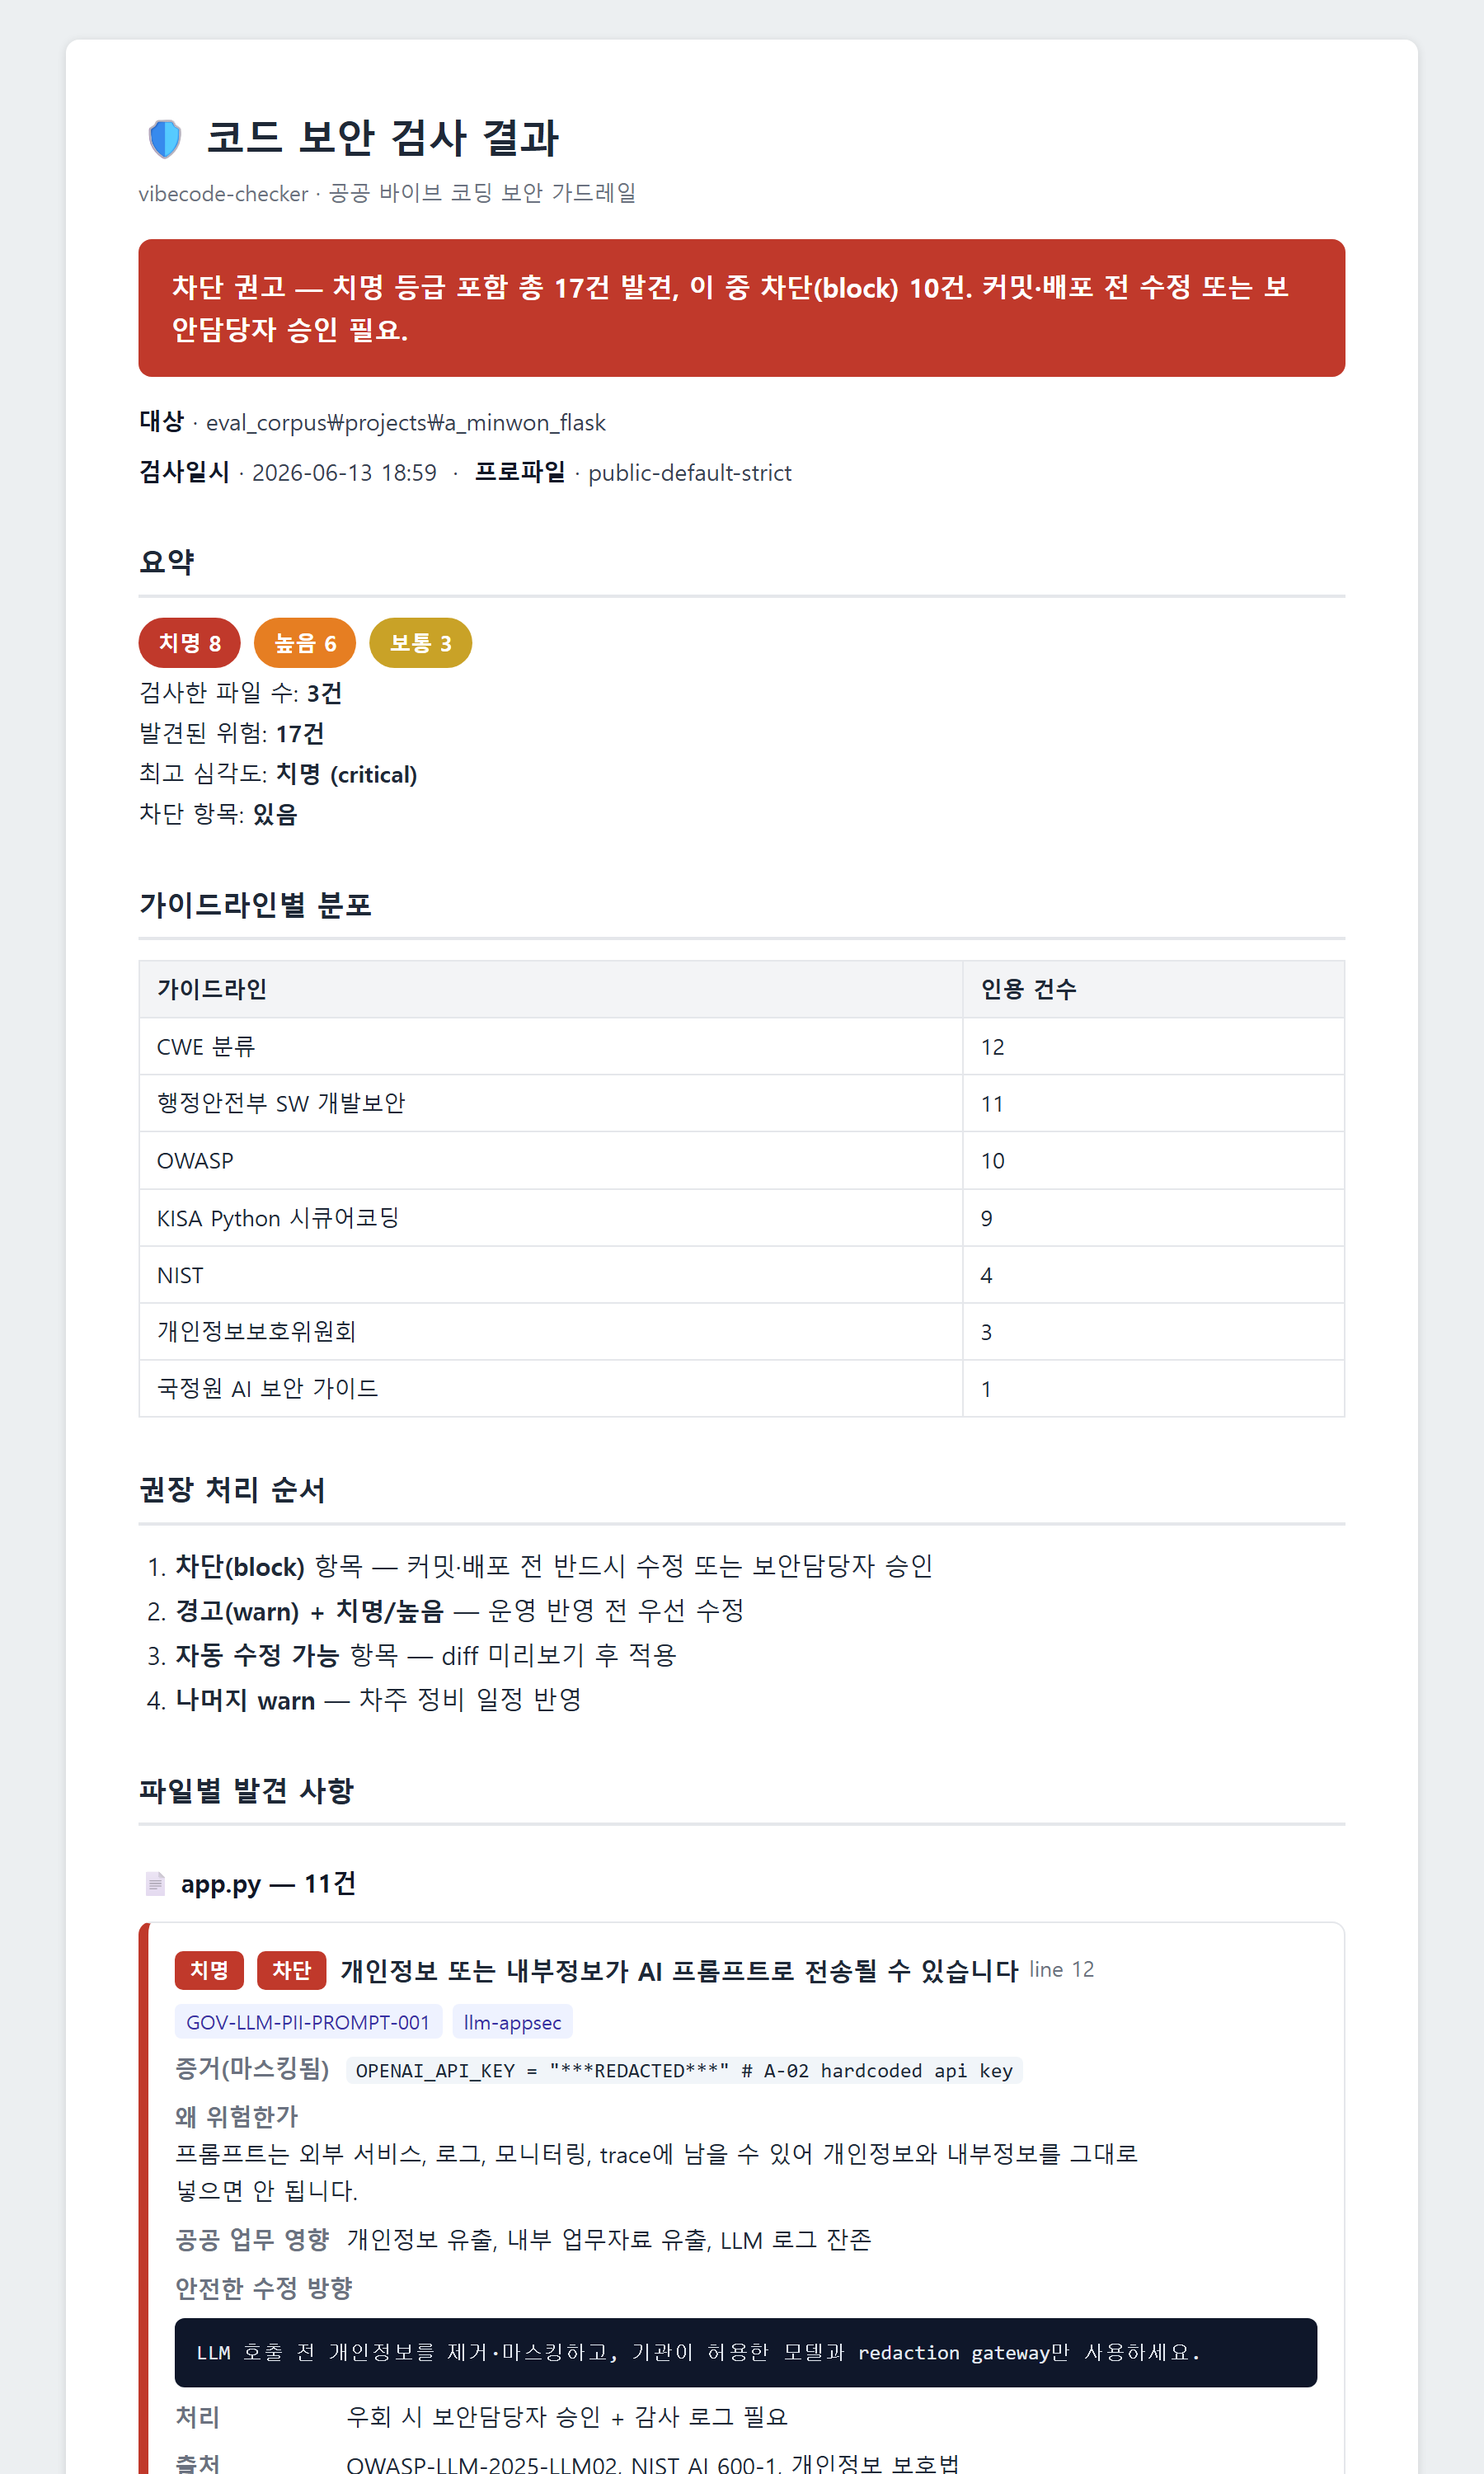
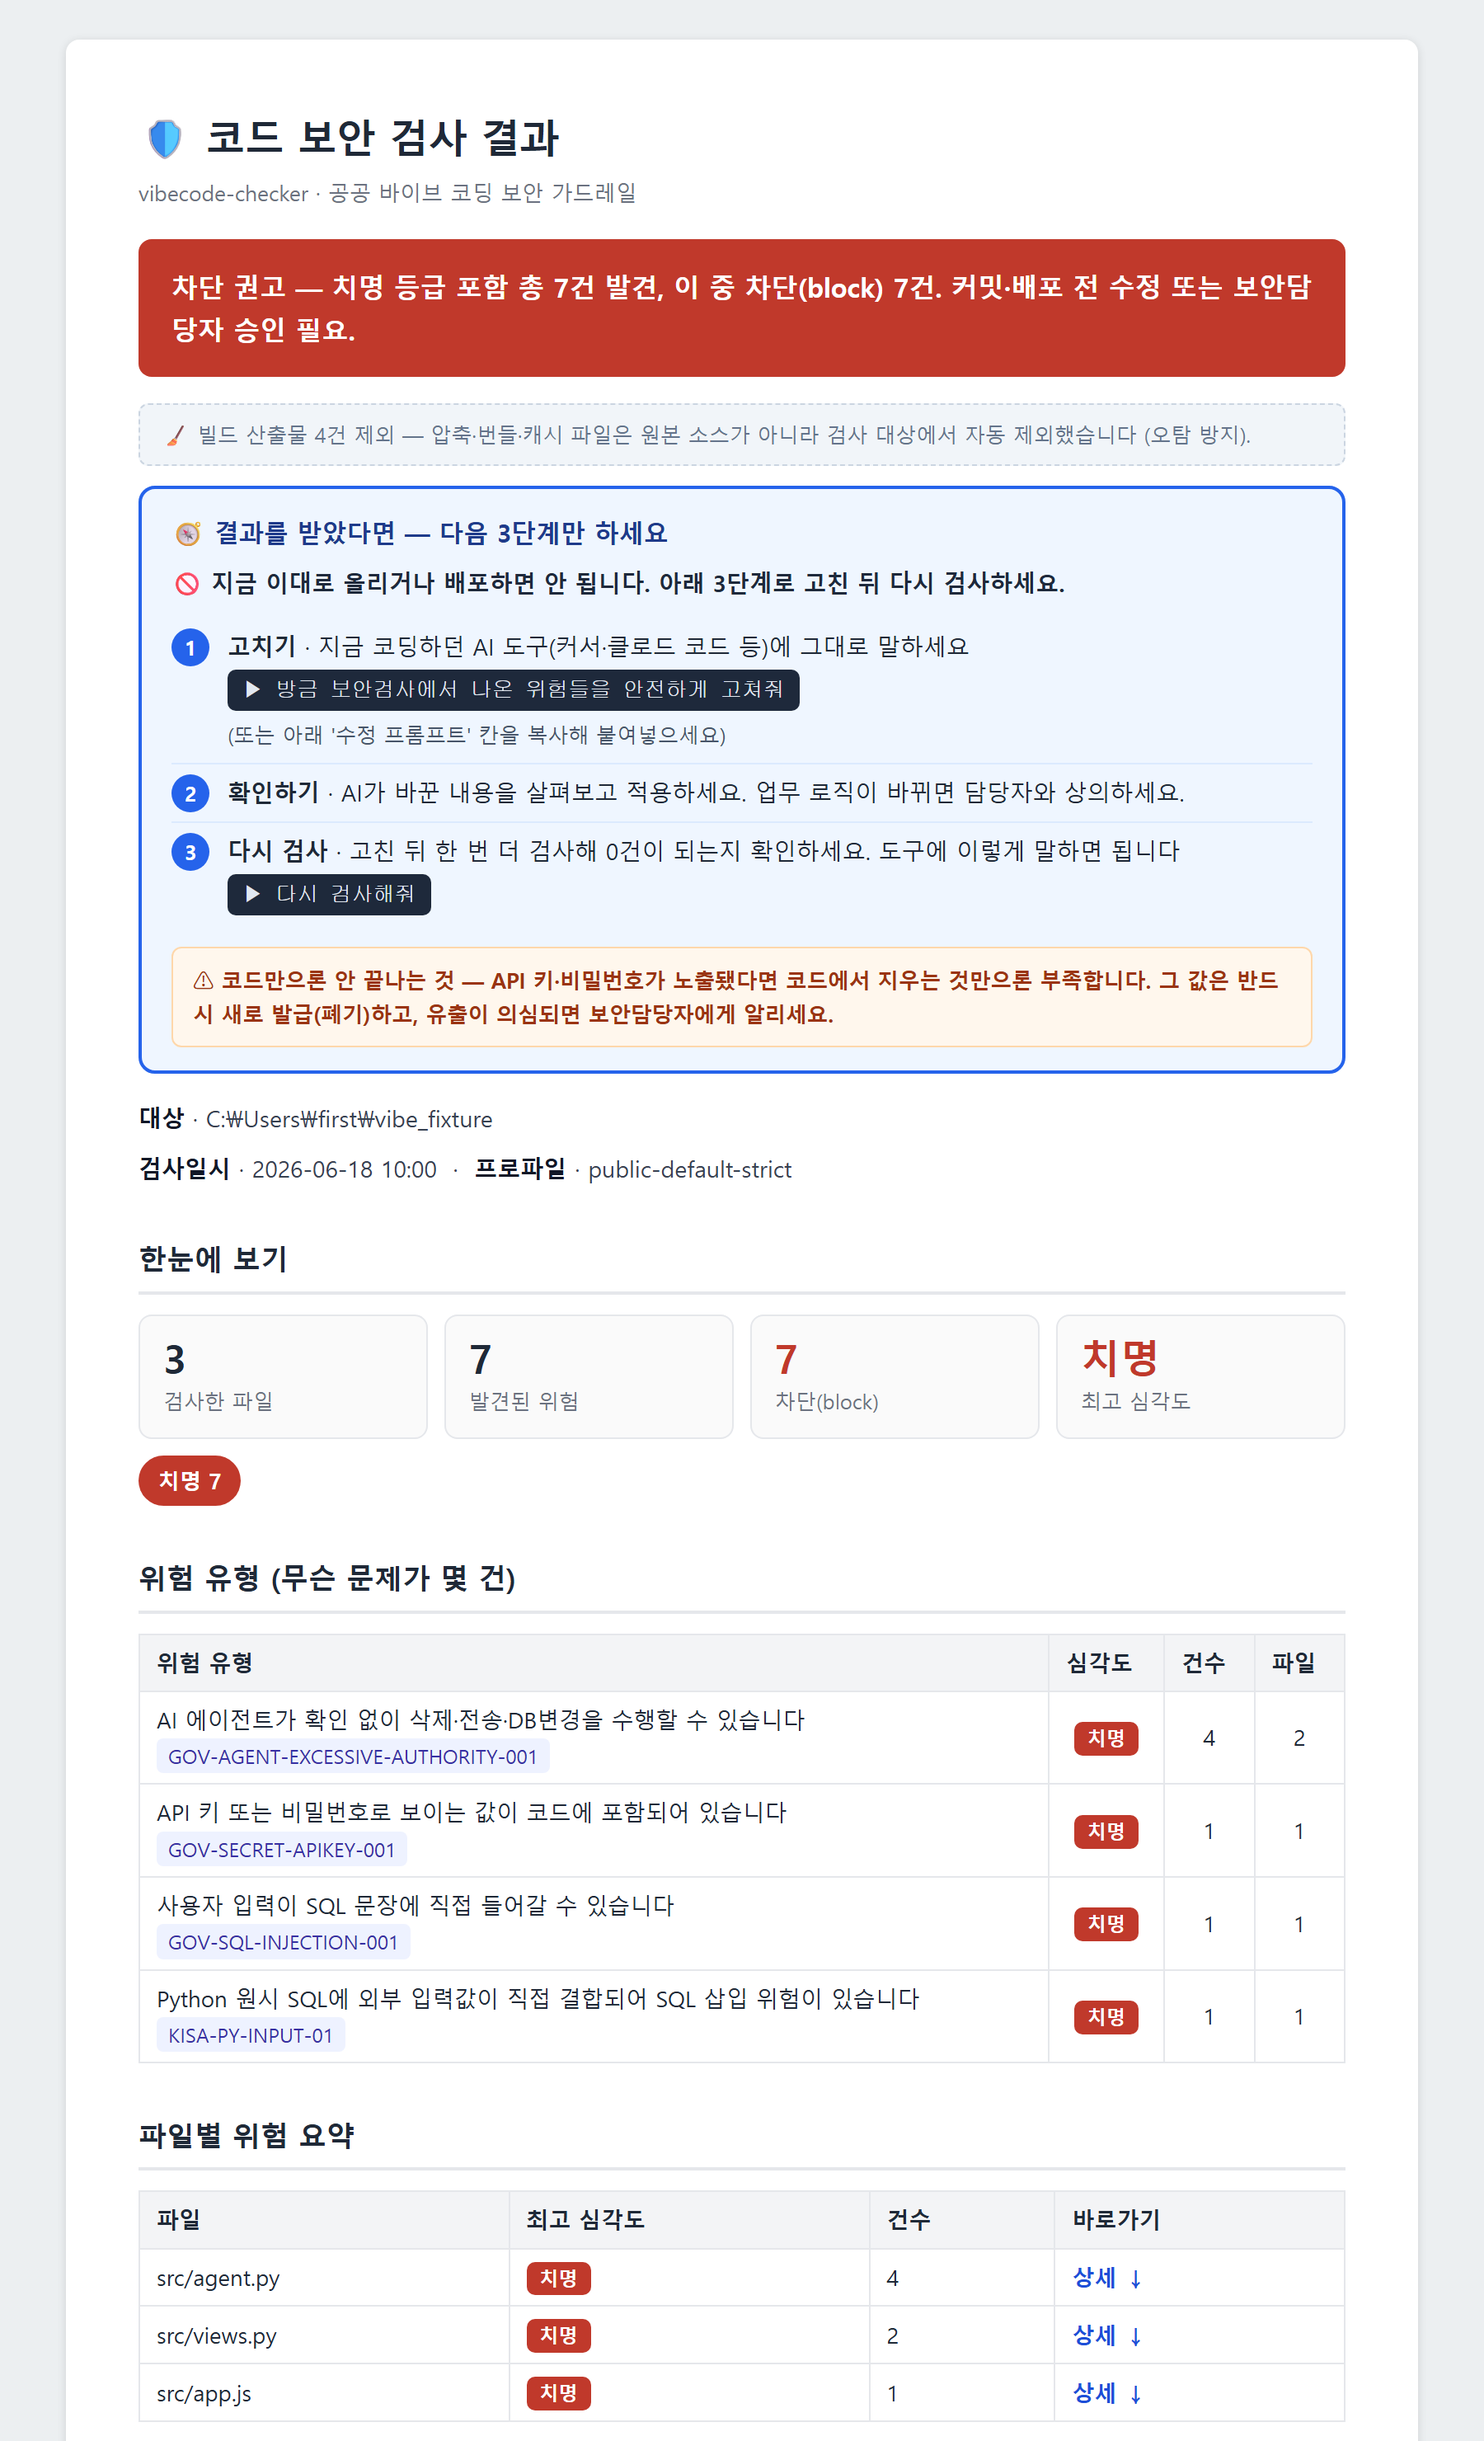
docs: explain false-positive handling + refresh report screenshot
- README "성능" 절에 '오탐을 어떻게 다루나' 섹션 추가: 재현율 우선 설계 ·
  빌드 산출물 자동 제외 · 데이터 기반 룰 정밀화 · "정밀화 ≠ 민감도 낮추기"
  (examples.negative + 벤치마크로 recall 유지 증명) 명시. 국정원 검토 대비
  정직성 설명 보강.
- docs/assets/sample_report.png 를 재설계된 리포트(1페이지 요약 + 다음 3단계
  행동 상자 + 위험 유형/파일별 요약)로 갱신. 기존 이미지는 재설계 이전 구버전.

diff --git a/README.md b/README.md
@@ -399,6 +399,16 @@ JavaScript      ███████████████░░░░░   7
 
 ---
 
+### 오탐(false positive)을 어떻게 다루나
+
+이 도구는 *놓침(미탐)보다 한 번 더 알림*을 택한 **재현율 우선** 설계입니다. 따라서 실제 코드에서는 맥락상 안전한데도 표시되는 항목이 있을 수 있어, **발견 사항은 증거 코드와 함께 사람이 맥락을 확인**하는 것을 전제로 합니다(리포트의 "다음 3단계" 안내 참고). 오탐을 줄이기 위해:
+
+- 🧹 **빌드 산출물 자동 제외** — 압축·번들·캐시(`dist/`·`public/assets/`·`.puppeteer-cache`·`.tmp`·`*.min.js`·해시 파일명·single-line 초장문)는 원본 소스가 아니므로 검사에서 빼고, 리포트에 *"빌드 산출물 N건 제외 — 원본 아님"*으로 표기합니다.
+- 🎯 **데이터 기반 룰 정밀화** — 실측 결과 광범위하게 오탐하던 룰(에이전트 권한·SQL 삽입·XSS·전화번호 등)을 *문맥·예외 패턴*으로 좁힙니다. 예: `DOMPurify.sanitize()`로 정화한 코드, 파라미터 바인딩(`?`) 쿼리, `sessionStorage.removeItem()`, 예시·마스킹 전화번호는 더 이상 표시하지 않습니다.
+- 🔒 **정밀화 ≠ 민감도 낮추기** — 모든 정밀화는 각 룰의 `examples.negative`(오탐 회귀 방지)와 독립 벤치마크로 *미탐이 늘지 않았음*(recall 유지)을 검증한 뒤에만 반영합니다. 룰을 끄거나 느슨하게 만드는 방식은 쓰지 않습니다(거짓 안심 방지).
+
+---
+
 ## 🏛 공공기관 · 망분리 환경
 
 - **소스코드는 외부로 전송되지 않습니다.** 모든 정적 분석은 로컬에서 수행됩니다.
